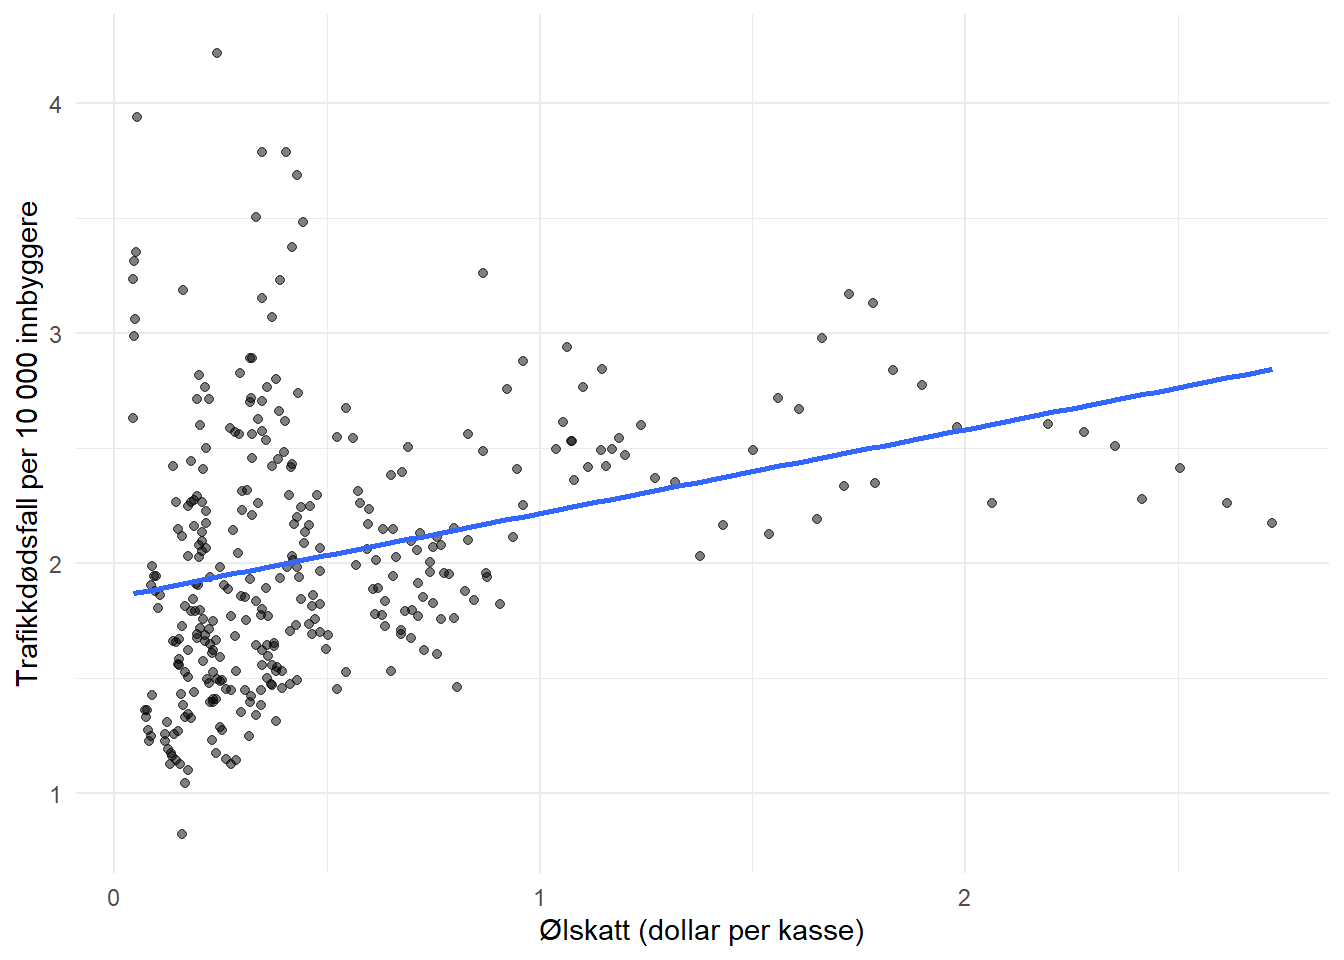
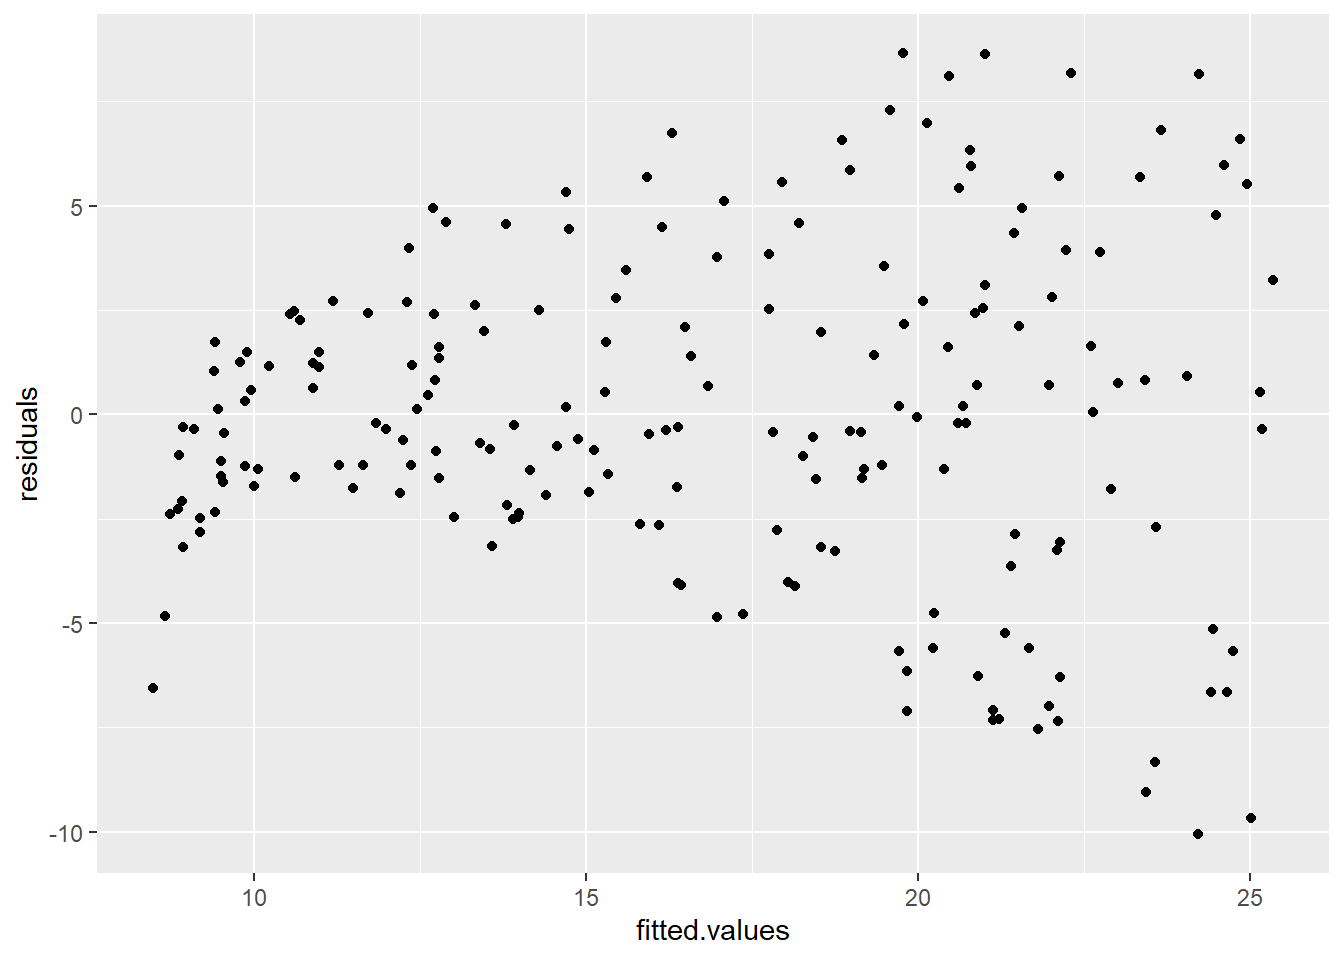
Build

diff --git a/docs/seminar-1---grunnleggende-statistikk.html b/docs/seminar-1---grunnleggende-statistikk.html
@@ -282,17 +282,78 @@ code span.wa { color: #60a0b0; font-weight: bold; font-style: italic; } /* Warni
 <!--     a. Gjør oppgave 1a og 1b på dette oppgavesettet. -->
 <!--     b. Kan du foreslå en *grafisk* fremstilling som kan vise eventuelle forskjeller i responstid før og etter omleggingen? -->
 <ol start="5" style="list-style-type: decimal">
-<li>La oss anta at 50 avgangsstudenter som gikk ut av NHHs masterprogram i fjor svarte på et spørreskjema hvor mye de har i startlønn i sin første jobb. Gjennomsnittslønnen var 450.000, med et standardavvik på 120.000. Anta videre at lønnsfordelingen for årets studenter er den samme (og se bort fra inflasjon).
+<li><p><strong>(Skoleeksamen H25, oppgave 1)</strong> I denne oppgaven skal du analysere data fra et forsikringsselskap som tilbyr bilforsikringer til privatkunder. Selskapet ønsker å forstå hvorfor enkelte nye kunder melder skade kort tid etter at forsikringen er tegnet («early claims»), slik at de kan identifisere risikokunder tidlig og sette inn forebyggende tiltak.</p>
+<p>Datasettet <code>claims</code> inneholder informasjon om et utvalg på 1500 kunder som nylig har kjøpt bilforsikring. Last det inn i R med følgende kommando (vi antar at filen ligger i arbeidsmappen din):</p>
+<div class="sourceCode" id="cb391"><pre class="sourceCode r"><code class="sourceCode r"><span id="cb391-1"><a href="seminar-1---grunnleggende-statistikk.html#cb391-1" tabindex="-1"></a><span class="fu">load</span>(<span class="st">&quot;claims.Rdata&quot;</span>)</span></code></pre></div>
+<p>Variablene i datasettet er:</p>
+<table>
+<colgroup>
+<col width="50%" />
+<col width="50%" />
+</colgroup>
+<thead>
+<tr class="header">
+<th>Variabel</th>
+<th>Beskrivelse</th>
+</tr>
+</thead>
+<tbody>
+<tr class="odd">
+<td><code>id</code></td>
+<td>Unik identifikator for hver kunde (1–1500)</td>
+</tr>
+<tr class="even">
+<td><code>early_claim</code></td>
+<td><code>"Yes"</code> = meldte skade innen 90 dager, <code>"No"</code> = ingen skade</td>
+</tr>
+<tr class="odd">
+<td><code>driver_age</code></td>
+<td>Alder på hovedfører (18–85 år)</td>
+</tr>
+<tr class="even">
+<td><code>years_license</code></td>
+<td>Antall år med førerkort (0–60 år)</td>
+</tr>
+<tr class="odd">
+<td><code>car_age</code></td>
+<td>Bilens alder i hele år (0–20)</td>
+</tr>
+<tr class="even">
+<td><code>mileage_km</code></td>
+<td>Deklarert årlig kjørelengde (3 000–50 000 km)</td>
+</tr>
+<tr class="odd">
+<td><code>engine_power_hp</code></td>
+<td>Motoreffekt i hestekrefter (60–350 hk)</td>
+</tr>
+<tr class="even">
+<td><code>channel</code></td>
+<td>Kjøpskanal: <code>"Web"</code>, <code>"Agent"</code> eller <code>"Phone"</code></td>
+</tr>
+<tr class="odd">
+<td><code>garage</code></td>
+<td><code>"Yes"</code> = garasje, <code>"No"</code> = ingen garasje</td>
+</tr>
+<tr class="even">
+<td><code>region</code></td>
+<td>Bostedsområde: <code>"Urban"</code> (by) eller <code>"Rural"</code> (landlig)</td>
+</tr>
+<tr class="odd">
+<td><code>multi_policy</code></td>
+<td><code>"Yes"</code> = flere forsikringer i selskapet, <code>"No"</code> = kun bilforsikring</td>
+</tr>
+<tr class="even">
+<td><code>payment_method</code></td>
+<td>Betalingsmåte: <code>"AvtaleGiro"</code> eller <code>"Faktura"</code></td>
+</tr>
+</tbody>
+</table>
 <ol style="list-style-type: lower-alpha">
-<li>Estimer sannsynligheten for at gjennomsnittlig startlønn for 50 responenter i år vil være større enn 450.000.</li>
-<li>Estimer sannsynligheten for at gjennomsnittlig startlønn for 50 responenter i år vil være større enn 500.000.</li>
+<li>Lag en tabell med deskriptiv statistikk for variablene <code>driver_age</code>, <code>years_license</code>, <code>car_age</code> og <code>mileage_km</code>. Kommenter kort sentraltendens og spredning for variablene.</li>
+<li>Lag et histogram av <code>mileage_km</code>. Lag også et boksplott som sammenligner fordelingen av <code>driver_age</code> for kundene med og uten <code>early_claim</code>. Kommenter kort hva du ser i figurene.</li>
+<li>Lag et søylediagram for <code>channel</code> og frekvenstabeller for <code>garage</code>, <code>region</code> og <code>multi_policy</code>. Kommenter kort hva figuren og tabellene viser om kundene i utvalget.</li>
 </ol></li>
-<li>La <span class="math inline">\(X\)</span> være en stokastisk variabel med forventningsverdi lik 5 og varians lik 2. Definer to nye stokastiske variabler <span class="math inline">\(Y = 2X-1\)</span> og <span class="math inline">\(Z = X^2 + Y\)</span>. Regn ut:
-<ol style="list-style-type: lower-alpha">
-<li>E<span class="math inline">\((Y)\)</span> og Var<span class="math inline">\((Y)\)</span>.</li>
-<li>E<span class="math inline">\((Z)\)</span> og Var<span class="math inline">\((Z)\)</span>.</li>
-</ol></li>
-<li>La <span class="math inline">\(X\)</span> være en standard normalfordelt variabel. Du får oppgitt at det medfører at E<span class="math inline">\((X^3) = 0\)</span>. La <span class="math inline">\(Y = X^2\)</span>.
+<li><p>La <span class="math inline">\(X\)</span> være en standard normalfordelt variabel. Du får oppgitt at det medfører at E<span class="math inline">\((X^3) = 0\)</span>. La <span class="math inline">\(Y = X^2\)</span>.</p>
 <ol style="list-style-type: lower-alpha">
 <li>Vis at korrelasjonen mellom <span class="math inline">\(X\)</span> og <span class="math inline">\(Y\)</span> er lik null.</li>
 <li>Er <span class="math inline">\(X\)</span> og <span class="math inline">\(Y\)</span> uavhengige?</li>

diff --git a/docs/seminar-6---avansert-regresjon-og-maskinlring.html b/docs/seminar-6---avansert-regresjon-og-maskinlring.html
@@ -290,8 +290,8 @@ hvor en ville fått bedre prediksjoner av <span class="math inline">\(Y\)</span>
 <ol style="list-style-type: lower-alpha">
 <li>Last inn <a href="datasett/Card_Krueger.Rdata">Card-Krueger-datasettet</a>. Lag først variabelen for årsverk (FTE), der <code>empft</code> er antall fulltidsansatte, <code>nmgrs</code> er antall ledere, og <code>emppt</code> er antall deltidsansatte (som teller halvparten):</li>
 </ol>
-<div class="sourceCode" id="cb394"><pre class="sourceCode r"><code class="sourceCode r"><span id="cb394-1"><a href="seminar-6---avansert-regresjon-og-maskinlring.html#cb394-1" tabindex="-1"></a>njmin <span class="ot">&lt;-</span> njmin <span class="sc">%&gt;%</span></span>
-<span id="cb394-2"><a href="seminar-6---avansert-regresjon-og-maskinlring.html#cb394-2" tabindex="-1"></a>  <span class="fu">mutate</span>(<span class="at">fte =</span> empft <span class="sc">+</span> nmgrs <span class="sc">+</span> <span class="fl">0.5</span><span class="sc">*</span>emppt)</span></code></pre></div>
+<div class="sourceCode" id="cb395"><pre class="sourceCode r"><code class="sourceCode r"><span id="cb395-1"><a href="seminar-6---avansert-regresjon-og-maskinlring.html#cb395-1" tabindex="-1"></a>njmin <span class="ot">&lt;-</span> njmin <span class="sc">%&gt;%</span></span>
+<span id="cb395-2"><a href="seminar-6---avansert-regresjon-og-maskinlring.html#cb395-2" tabindex="-1"></a>  <span class="fu">mutate</span>(<span class="at">fte =</span> empft <span class="sc">+</span> nmgrs <span class="sc">+</span> <span class="fl">0.5</span><span class="sc">*</span>emppt)</span></code></pre></div>
 <p>Lag deretter en figur som viser gjennomsnittlig <code>fte</code> over tid (<code>observation</code>), separat for New Jersey og Pennsylvania (<code>state</code>). Beskriv hva du ser.</p>
 <ol start="2" style="list-style-type: lower-alpha">
 <li>Hva ville vi konkludert dersom vi bare sammenlignet sysselsettingsnivået i New Jersey og Pennsylvania i november 1992? Hvorfor er denne sammenligningen problematisk?</li>
@@ -303,11 +303,11 @@ hvor en ville fått bedre prediksjoner av <span class="math inline">\(Y\)</span>
 <li><p>Forklar med egne ord hvorfor vi bruker Pennsylvania som sammenligningsgruppe. Hva antar vi om hvordan sysselsettingen i New Jersey ville utviklet seg dersom minstelønnen <em>ikke</em> hadde økt?</p></li>
 <li><p>Lag dummy-variabler for behandling:</p></li>
 </ol>
-<div class="sourceCode" id="cb395"><pre class="sourceCode r"><code class="sourceCode r"><span id="cb395-1"><a href="seminar-6---avansert-regresjon-og-maskinlring.html#cb395-1" tabindex="-1"></a>njmin <span class="ot">&lt;-</span> njmin <span class="sc">%&gt;%</span></span>
-<span id="cb395-2"><a href="seminar-6---avansert-regresjon-og-maskinlring.html#cb395-2" tabindex="-1"></a>  <span class="fu">mutate</span>(</span>
-<span id="cb395-3"><a href="seminar-6---avansert-regresjon-og-maskinlring.html#cb395-3" tabindex="-1"></a>    <span class="at">treat =</span> <span class="fu">if_else</span>(state <span class="sc">==</span> <span class="st">&quot;New Jersey&quot;</span>, <span class="dv">1</span>, <span class="dv">0</span>),</span>
-<span id="cb395-4"><a href="seminar-6---avansert-regresjon-og-maskinlring.html#cb395-4" tabindex="-1"></a>    <span class="at">post =</span> <span class="fu">if_else</span>(observation <span class="sc">==</span> <span class="st">&quot;November 1992&quot;</span>, <span class="dv">1</span>, <span class="dv">0</span>)</span>
-<span id="cb395-5"><a href="seminar-6---avansert-regresjon-og-maskinlring.html#cb395-5" tabindex="-1"></a>  )</span></code></pre></div>
+<div class="sourceCode" id="cb396"><pre class="sourceCode r"><code class="sourceCode r"><span id="cb396-1"><a href="seminar-6---avansert-regresjon-og-maskinlring.html#cb396-1" tabindex="-1"></a>njmin <span class="ot">&lt;-</span> njmin <span class="sc">%&gt;%</span></span>
+<span id="cb396-2"><a href="seminar-6---avansert-regresjon-og-maskinlring.html#cb396-2" tabindex="-1"></a>  <span class="fu">mutate</span>(</span>
+<span id="cb396-3"><a href="seminar-6---avansert-regresjon-og-maskinlring.html#cb396-3" tabindex="-1"></a>    <span class="at">treat =</span> <span class="fu">if_else</span>(state <span class="sc">==</span> <span class="st">&quot;New Jersey&quot;</span>, <span class="dv">1</span>, <span class="dv">0</span>),</span>
+<span id="cb396-4"><a href="seminar-6---avansert-regresjon-og-maskinlring.html#cb396-4" tabindex="-1"></a>    <span class="at">post =</span> <span class="fu">if_else</span>(observation <span class="sc">==</span> <span class="st">&quot;November 1992&quot;</span>, <span class="dv">1</span>, <span class="dv">0</span>)</span>
+<span id="cb396-5"><a href="seminar-6---avansert-regresjon-og-maskinlring.html#cb396-5" tabindex="-1"></a>  )</span></code></pre></div>
 <p>Estimer deretter tre modeller som bygger opp til difference-in-differences-estimatet:</p>
 <ol style="list-style-type: decimal">
 <li><strong>Naiv sammenligning:</strong> Bruk kun data fra november 1992 (<code>post == 1</code>), og estimer <span class="math inline">\(\text{fte}_i = \beta_0 + \beta_1 \text{treat}_i + \epsilon_i\)</span></li>
@@ -344,8 +344,8 @@ hvor en ville fått bedre prediksjoner av <span class="math inline">\(Y\)</span>
 <ol style="list-style-type: lower-alpha">
 <li>Last inn datasettet fra <code>AER</code>-pakken med <code>data("Fatalities")</code>. Lag først variabelen for dødsfall per 10 000 innbyggere:</li>
 </ol>
-<div class="sourceCode" id="cb396"><pre class="sourceCode r"><code class="sourceCode r"><span id="cb396-1"><a href="seminar-6---avansert-regresjon-og-maskinlring.html#cb396-1" tabindex="-1"></a>Fatalities <span class="ot">&lt;-</span> Fatalities <span class="sc">%&gt;%</span></span>
-<span id="cb396-2"><a href="seminar-6---avansert-regresjon-og-maskinlring.html#cb396-2" tabindex="-1"></a>  <span class="fu">mutate</span>(<span class="at">frate =</span> fatal <span class="sc">/</span> pop <span class="sc">*</span> <span class="dv">10000</span>)</span></code></pre></div>
+<div class="sourceCode" id="cb397"><pre class="sourceCode r"><code class="sourceCode r"><span id="cb397-1"><a href="seminar-6---avansert-regresjon-og-maskinlring.html#cb397-1" tabindex="-1"></a>Fatalities <span class="ot">&lt;-</span> Fatalities <span class="sc">%&gt;%</span></span>
+<span id="cb397-2"><a href="seminar-6---avansert-regresjon-og-maskinlring.html#cb397-2" tabindex="-1"></a>  <span class="fu">mutate</span>(<span class="at">frate =</span> fatal <span class="sc">/</span> pop <span class="sc">*</span> <span class="dv">10000</span>)</span></code></pre></div>
 <p>Lag deretter et spredningsplott med <code>beertax</code> på x-aksen og <code>frate</code> på y-aksen. Hva ser du?</p>
 <ol start="2" style="list-style-type: lower-alpha">
 <li><p>Estimer en enkel lineær modell: <span class="math inline">\(\text{frate}_{it} = \beta_0 + \beta_1 \text{beertax}_{it} + \epsilon_{it}\)</span>. Tolk koeffisienten. Er resultatet overraskende?</p></li>
@@ -356,19 +356,19 @@ hvor en ville fått bedre prediksjoner av <span class="math inline">\(Y\)</span>
 Løsning
 </summary>
 <p><strong>a)</strong></p>
-<div class="sourceCode" id="cb397"><pre class="sourceCode r"><code class="sourceCode r"><span id="cb397-1"><a href="seminar-6---avansert-regresjon-og-maskinlring.html#cb397-1" tabindex="-1"></a><span class="fu">data</span>(<span class="st">&quot;Fatalities&quot;</span>)</span>
-<span id="cb397-2"><a href="seminar-6---avansert-regresjon-og-maskinlring.html#cb397-2" tabindex="-1"></a>Fatalities <span class="ot">&lt;-</span> Fatalities <span class="sc">%&gt;%</span> <span class="fu">mutate</span>(<span class="at">frate =</span> fatal <span class="sc">/</span> pop <span class="sc">*</span> <span class="dv">10000</span>)</span>
-<span id="cb397-3"><a href="seminar-6---avansert-regresjon-og-maskinlring.html#cb397-3" tabindex="-1"></a></span>
-<span id="cb397-4"><a href="seminar-6---avansert-regresjon-og-maskinlring.html#cb397-4" tabindex="-1"></a><span class="fu">ggplot</span>(Fatalities, <span class="fu">aes</span>(<span class="at">x =</span> beertax, <span class="at">y =</span> frate)) <span class="sc">+</span></span>
-<span id="cb397-5"><a href="seminar-6---avansert-regresjon-og-maskinlring.html#cb397-5" tabindex="-1"></a>  <span class="fu">geom_point</span>(<span class="at">alpha =</span> <span class="fl">0.5</span>) <span class="sc">+</span></span>
-<span id="cb397-6"><a href="seminar-6---avansert-regresjon-og-maskinlring.html#cb397-6" tabindex="-1"></a>  <span class="fu">geom_smooth</span>(<span class="at">method =</span> <span class="st">&quot;lm&quot;</span>, <span class="at">se =</span> <span class="cn">FALSE</span>) <span class="sc">+</span></span>
-<span id="cb397-7"><a href="seminar-6---avansert-regresjon-og-maskinlring.html#cb397-7" tabindex="-1"></a>  <span class="fu">labs</span>(<span class="at">x =</span> <span class="st">&quot;Ølskatt (dollar per kasse)&quot;</span>, <span class="at">y =</span> <span class="st">&quot;Trafikkdødsfall per 10 000 innbyggere&quot;</span>) <span class="sc">+</span></span>
-<span id="cb397-8"><a href="seminar-6---avansert-regresjon-og-maskinlring.html#cb397-8" tabindex="-1"></a>  <span class="fu">theme_minimal</span>()</span></code></pre></div>
-<p><img src="met4_files/figure-html/unnamed-chunk-351-1.png" alt="" width="672" />
+<div class="sourceCode" id="cb398"><pre class="sourceCode r"><code class="sourceCode r"><span id="cb398-1"><a href="seminar-6---avansert-regresjon-og-maskinlring.html#cb398-1" tabindex="-1"></a><span class="fu">data</span>(<span class="st">&quot;Fatalities&quot;</span>)</span>
+<span id="cb398-2"><a href="seminar-6---avansert-regresjon-og-maskinlring.html#cb398-2" tabindex="-1"></a>Fatalities <span class="ot">&lt;-</span> Fatalities <span class="sc">%&gt;%</span> <span class="fu">mutate</span>(<span class="at">frate =</span> fatal <span class="sc">/</span> pop <span class="sc">*</span> <span class="dv">10000</span>)</span>
+<span id="cb398-3"><a href="seminar-6---avansert-regresjon-og-maskinlring.html#cb398-3" tabindex="-1"></a></span>
+<span id="cb398-4"><a href="seminar-6---avansert-regresjon-og-maskinlring.html#cb398-4" tabindex="-1"></a><span class="fu">ggplot</span>(Fatalities, <span class="fu">aes</span>(<span class="at">x =</span> beertax, <span class="at">y =</span> frate)) <span class="sc">+</span></span>
+<span id="cb398-5"><a href="seminar-6---avansert-regresjon-og-maskinlring.html#cb398-5" tabindex="-1"></a>  <span class="fu">geom_point</span>(<span class="at">alpha =</span> <span class="fl">0.5</span>) <span class="sc">+</span></span>
+<span id="cb398-6"><a href="seminar-6---avansert-regresjon-og-maskinlring.html#cb398-6" tabindex="-1"></a>  <span class="fu">geom_smooth</span>(<span class="at">method =</span> <span class="st">&quot;lm&quot;</span>, <span class="at">se =</span> <span class="cn">FALSE</span>) <span class="sc">+</span></span>
+<span id="cb398-7"><a href="seminar-6---avansert-regresjon-og-maskinlring.html#cb398-7" tabindex="-1"></a>  <span class="fu">labs</span>(<span class="at">x =</span> <span class="st">&quot;Ølskatt (dollar per kasse)&quot;</span>, <span class="at">y =</span> <span class="st">&quot;Trafikkdødsfall per 10 000 innbyggere&quot;</span>) <span class="sc">+</span></span>
+<span id="cb398-8"><a href="seminar-6---avansert-regresjon-og-maskinlring.html#cb398-8" tabindex="-1"></a>  <span class="fu">theme_minimal</span>()</span></code></pre></div>
+<p><img src="met4_files/figure-html/unnamed-chunk-352-1.png" alt="" width="672" />
 Spredningsplottet viser en <strong>positiv</strong> sammenheng mellom ølskatt og trafikkdødsfall — overraskende og kontraintuitivt.</p>
 <p><strong>b)</strong></p>
-<div class="sourceCode" id="cb398"><pre class="sourceCode r"><code class="sourceCode r"><span id="cb398-1"><a href="seminar-6---avansert-regresjon-og-maskinlring.html#cb398-1" tabindex="-1"></a>pooled <span class="ot">&lt;-</span> <span class="fu">feols</span>(frate <span class="sc">~</span> beertax, <span class="at">data =</span> Fatalities)</span>
-<span id="cb398-2"><a href="seminar-6---avansert-regresjon-og-maskinlring.html#cb398-2" tabindex="-1"></a><span class="fu">summary</span>(pooled)</span></code></pre></div>
+<div class="sourceCode" id="cb399"><pre class="sourceCode r"><code class="sourceCode r"><span id="cb399-1"><a href="seminar-6---avansert-regresjon-og-maskinlring.html#cb399-1" tabindex="-1"></a>pooled <span class="ot">&lt;-</span> <span class="fu">feols</span>(frate <span class="sc">~</span> beertax, <span class="at">data =</span> Fatalities)</span>
+<span id="cb399-2"><a href="seminar-6---avansert-regresjon-og-maskinlring.html#cb399-2" tabindex="-1"></a><span class="fu">summary</span>(pooled)</span></code></pre></div>
 <pre><code>## OLS estimation, Dep. Var.: frate
 ## Observations: 336
 ## Standard-errors: IID 
@@ -398,10 +398,10 @@ Spredningsplottet viser en <strong>positiv</strong> sammenheng mellom ølskatt o
 Løsning
 </summary>
 <p><strong>a)</strong></p>
-<div class="sourceCode" id="cb400"><pre class="sourceCode r"><code class="sourceCode r"><span id="cb400-1"><a href="seminar-6---avansert-regresjon-og-maskinlring.html#cb400-1" tabindex="-1"></a>pooled   <span class="ot">&lt;-</span> <span class="fu">feols</span>(frate <span class="sc">~</span> beertax, <span class="at">data =</span> Fatalities)</span>
-<span id="cb400-2"><a href="seminar-6---avansert-regresjon-og-maskinlring.html#cb400-2" tabindex="-1"></a>state_fe <span class="ot">&lt;-</span> <span class="fu">feols</span>(frate <span class="sc">~</span> beertax <span class="sc">|</span> state, <span class="at">data =</span> Fatalities)</span>
-<span id="cb400-3"><a href="seminar-6---avansert-regresjon-og-maskinlring.html#cb400-3" tabindex="-1"></a>twfe     <span class="ot">&lt;-</span> <span class="fu">feols</span>(frate <span class="sc">~</span> beertax <span class="sc">|</span> state <span class="sc">+</span> year, <span class="at">data =</span> Fatalities)</span>
-<span id="cb400-4"><a href="seminar-6---avansert-regresjon-og-maskinlring.html#cb400-4" tabindex="-1"></a><span class="fu">etable</span>(pooled, state_fe, twfe)</span></code></pre></div>
+<div class="sourceCode" id="cb401"><pre class="sourceCode r"><code class="sourceCode r"><span id="cb401-1"><a href="seminar-6---avansert-regresjon-og-maskinlring.html#cb401-1" tabindex="-1"></a>pooled   <span class="ot">&lt;-</span> <span class="fu">feols</span>(frate <span class="sc">~</span> beertax, <span class="at">data =</span> Fatalities)</span>
+<span id="cb401-2"><a href="seminar-6---avansert-regresjon-og-maskinlring.html#cb401-2" tabindex="-1"></a>state_fe <span class="ot">&lt;-</span> <span class="fu">feols</span>(frate <span class="sc">~</span> beertax <span class="sc">|</span> state, <span class="at">data =</span> Fatalities)</span>
+<span id="cb401-3"><a href="seminar-6---avansert-regresjon-og-maskinlring.html#cb401-3" tabindex="-1"></a>twfe     <span class="ot">&lt;-</span> <span class="fu">feols</span>(frate <span class="sc">~</span> beertax <span class="sc">|</span> state <span class="sc">+</span> year, <span class="at">data =</span> Fatalities)</span>
+<span id="cb401-4"><a href="seminar-6---avansert-regresjon-og-maskinlring.html#cb401-4" tabindex="-1"></a><span class="fu">etable</span>(pooled, state_fe, twfe)</span></code></pre></div>
 <pre><code>##                             pooled            state_fe               twfe
 ## Dependent Var.:              frate               frate              frate
 ##                                                                          
@@ -432,7 +432,7 @@ Løsning
 Løsning
 </summary>
 <p><strong>a)</strong></p>
-<div class="sourceCode" id="cb402"><pre class="sourceCode r"><code class="sourceCode r"><span id="cb402-1"><a href="seminar-6---avansert-regresjon-og-maskinlring.html#cb402-1" tabindex="-1"></a><span class="fu">summary</span>(pooled)    <span class="co"># N=336, K=2, df=334</span></span></code></pre></div>
+<div class="sourceCode" id="cb403"><pre class="sourceCode r"><code class="sourceCode r"><span id="cb403-1"><a href="seminar-6---avansert-regresjon-og-maskinlring.html#cb403-1" tabindex="-1"></a><span class="fu">summary</span>(pooled)    <span class="co"># N=336, K=2, df=334</span></span></code></pre></div>
 <pre><code>## OLS estimation, Dep. Var.: frate
 ## Observations: 336
 ## Standard-errors: IID 
@@ -442,7 +442,7 @@ Løsning
 ## ---
 ## Signif. codes:  0 &#39;***&#39; 0.001 &#39;**&#39; 0.01 &#39;*&#39; 0.05 &#39;.&#39; 0.1 &#39; &#39; 1
 ## RMSE: 0.542116   Adj. R2: 0.090648</code></pre>
-<div class="sourceCode" id="cb404"><pre class="sourceCode r"><code class="sourceCode r"><span id="cb404-1"><a href="seminar-6---avansert-regresjon-og-maskinlring.html#cb404-1" tabindex="-1"></a><span class="fu">summary</span>(state_fe)  <span class="co"># N=336, K=49, df=287</span></span></code></pre></div>
+<div class="sourceCode" id="cb405"><pre class="sourceCode r"><code class="sourceCode r"><span id="cb405-1"><a href="seminar-6---avansert-regresjon-og-maskinlring.html#cb405-1" tabindex="-1"></a><span class="fu">summary</span>(state_fe)  <span class="co"># N=336, K=49, df=287</span></span></code></pre></div>
 <pre><code>## OLS estimation, Dep. Var.: frate
 ## Observations: 336
 ## Fixed-effects: state: 48
@@ -453,7 +453,7 @@ Løsning
 ## Signif. codes:  0 &#39;***&#39; 0.001 &#39;**&#39; 0.01 &#39;*&#39; 0.05 &#39;.&#39; 0.1 &#39; &#39; 1
 ## RMSE: 0.17547     Adj. R2: 0.889129
 ##                 Within R2: 0.040745</code></pre>
-<div class="sourceCode" id="cb406"><pre class="sourceCode r"><code class="sourceCode r"><span id="cb406-1"><a href="seminar-6---avansert-regresjon-og-maskinlring.html#cb406-1" tabindex="-1"></a><span class="fu">summary</span>(twfe)      <span class="co"># N=336, K=56, df=280</span></span></code></pre></div>
+<div class="sourceCode" id="cb407"><pre class="sourceCode r"><code class="sourceCode r"><span id="cb407-1"><a href="seminar-6---avansert-regresjon-og-maskinlring.html#cb407-1" tabindex="-1"></a><span class="fu">summary</span>(twfe)      <span class="co"># N=336, K=56, df=280</span></span></code></pre></div>
 <pre><code>## OLS estimation, Dep. Var.: frate
 ## Observations: 336
 ## Fixed-effects: state: 48,  year: 7
@@ -467,7 +467,7 @@ Løsning
 <p>Antall observasjoner er likt (336), men antall estimerte koeffisienter øker og frihetsgrader synker for hver modell.</p>
 <p><strong>b)</strong> Standardfeilen for <code>beertax</code> øker (presisjonen synker) når vi legger til faste effekter. Faste effekter absorberer variasjon og reduserer effektive frihetsgrader — vi betaler for bedre kontroll med lavere presisjon.</p>
 <p><strong>c)</strong></p>
-<div class="sourceCode" id="cb408"><pre class="sourceCode r"><code class="sourceCode r"><span id="cb408-1"><a href="seminar-6---avansert-regresjon-og-maskinlring.html#cb408-1" tabindex="-1"></a><span class="fu">feols</span>(frate <span class="sc">~</span> beertax <span class="sc">|</span> state <span class="sc">+</span> year <span class="sc">+</span> state<span class="sc">:</span>year, <span class="at">data =</span> Fatalities)</span></code></pre></div>
+<div class="sourceCode" id="cb409"><pre class="sourceCode r"><code class="sourceCode r"><span id="cb409-1"><a href="seminar-6---avansert-regresjon-og-maskinlring.html#cb409-1" tabindex="-1"></a><span class="fu">feols</span>(frate <span class="sc">~</span> beertax <span class="sc">|</span> state <span class="sc">+</span> year <span class="sc">+</span> state<span class="sc">:</span>year, <span class="at">data =</span> Fatalities)</span></code></pre></div>
 <p>Modellen kan ikke estimeres. Vi har 48 × 7 = 336 delstat-år-kombinasjoner og nøyaktig 336 observasjoner. En fast effekt per kombinasjon gir perfekt kollinearitet — ingen variasjon gjenstår til å estimere effekten av <code>beertax</code>.</p>
 </details>
 <p><strong>Oppgave 10</strong></p>

diff --git a/docs/seminar-4---regresjon-ii.html b/docs/seminar-4---regresjon-ii.html
@@ -297,11 +297,11 @@ code span.wa { color: #60a0b0; font-weight: bold; font-style: italic; } /* Warni
 ## This warning is displayed once every 8 hours.
 ## Call `lifecycle::last_lifecycle_warnings()` to see where this warning was
 ## generated.</code></pre>
-<p><img src="met4_files/figure-html/unnamed-chunk-344-1.png" alt="" width="672" /></p>
+<p><img src="met4_files/figure-html/unnamed-chunk-345-1.png" alt="" width="672" /></p>
 <ol start="4" style="list-style-type: decimal">
 <li>Ved hjelp av den estimerte regresjonsmodellen lager babyutstyrforhandleren følgende plott av residualene mot de predikerte verdiene for hver observasjon i datasettet. Hva sier denne figuren oss om lineær regresjon som modell for sammenhengen mellom penger brukt på markedsføring og omsetning?</li>
 </ol>
-<p><img src="met4_files/figure-html/unnamed-chunk-345-1.png" alt="" width="672" /></p>
+<p><img src="met4_files/figure-html/unnamed-chunk-346-1.png" alt="" width="672" /></p>
 <p>Det er gjort mange forsøk på å forklare hvorfor noen land er rike, mens andre land er fattige, se f.eks hjemmeeksamen i MET4, V17. En mulig forklaring kan ligge in landenes fysiske og geografiske egenskaper. For eksempel, kan det hende at land som har ulendt terreng kan ha større vanskeligheter med å bygge infrastruktur og frakte varer enn land som er helt flate, og dermed ende opp som fattigere av den grunn?</p>
 <p>Vi ser på et lite datasett (<a href="https://xcelab.net/rm/statistical-rethinking/">lånt fra boken <em>Statistical Rethinking</em></a>) der vi har et mål på landenes rikdom (logaritmen av BNP, <code>log_gdp</code>), samt et mål på hvor ulendt terrenget er i det landet (<code>rugged</code>). Vi har også mer informasjon om landene, for eksempel om det ligger i Afrika eller ikke (<code>cont_africa</code>).</p>
 <p>Vi har gjort tre regresjonsanalyser i R, med følgende utskrifter:</p>